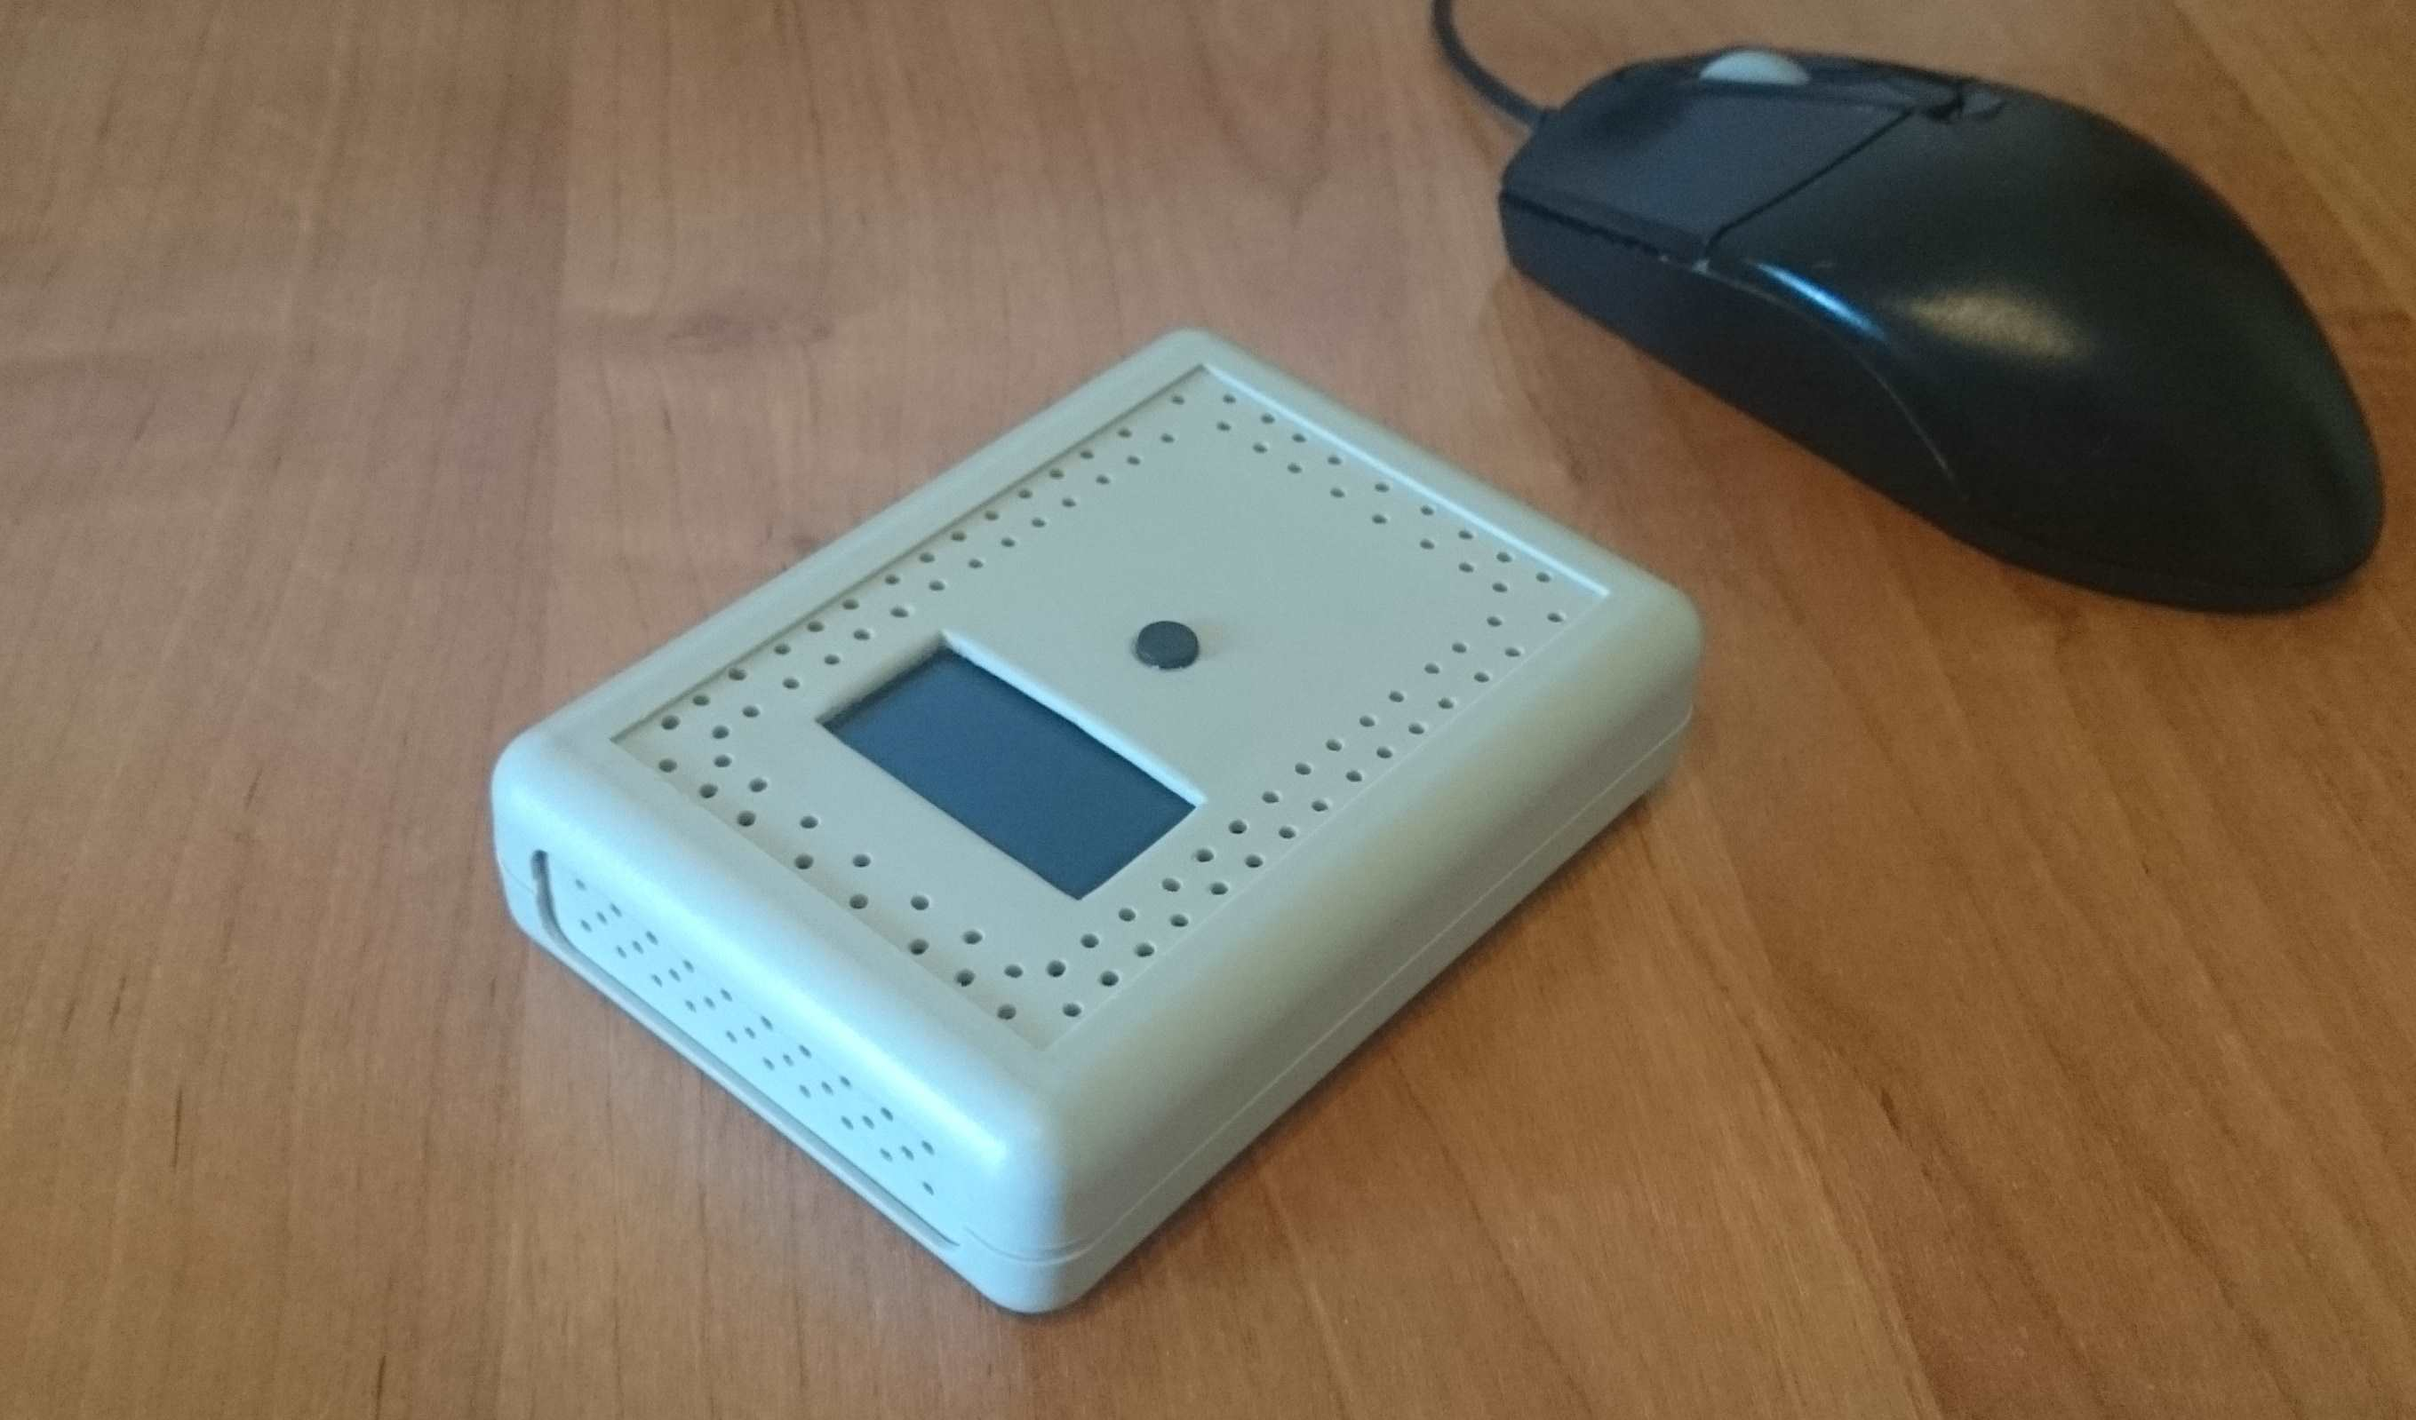
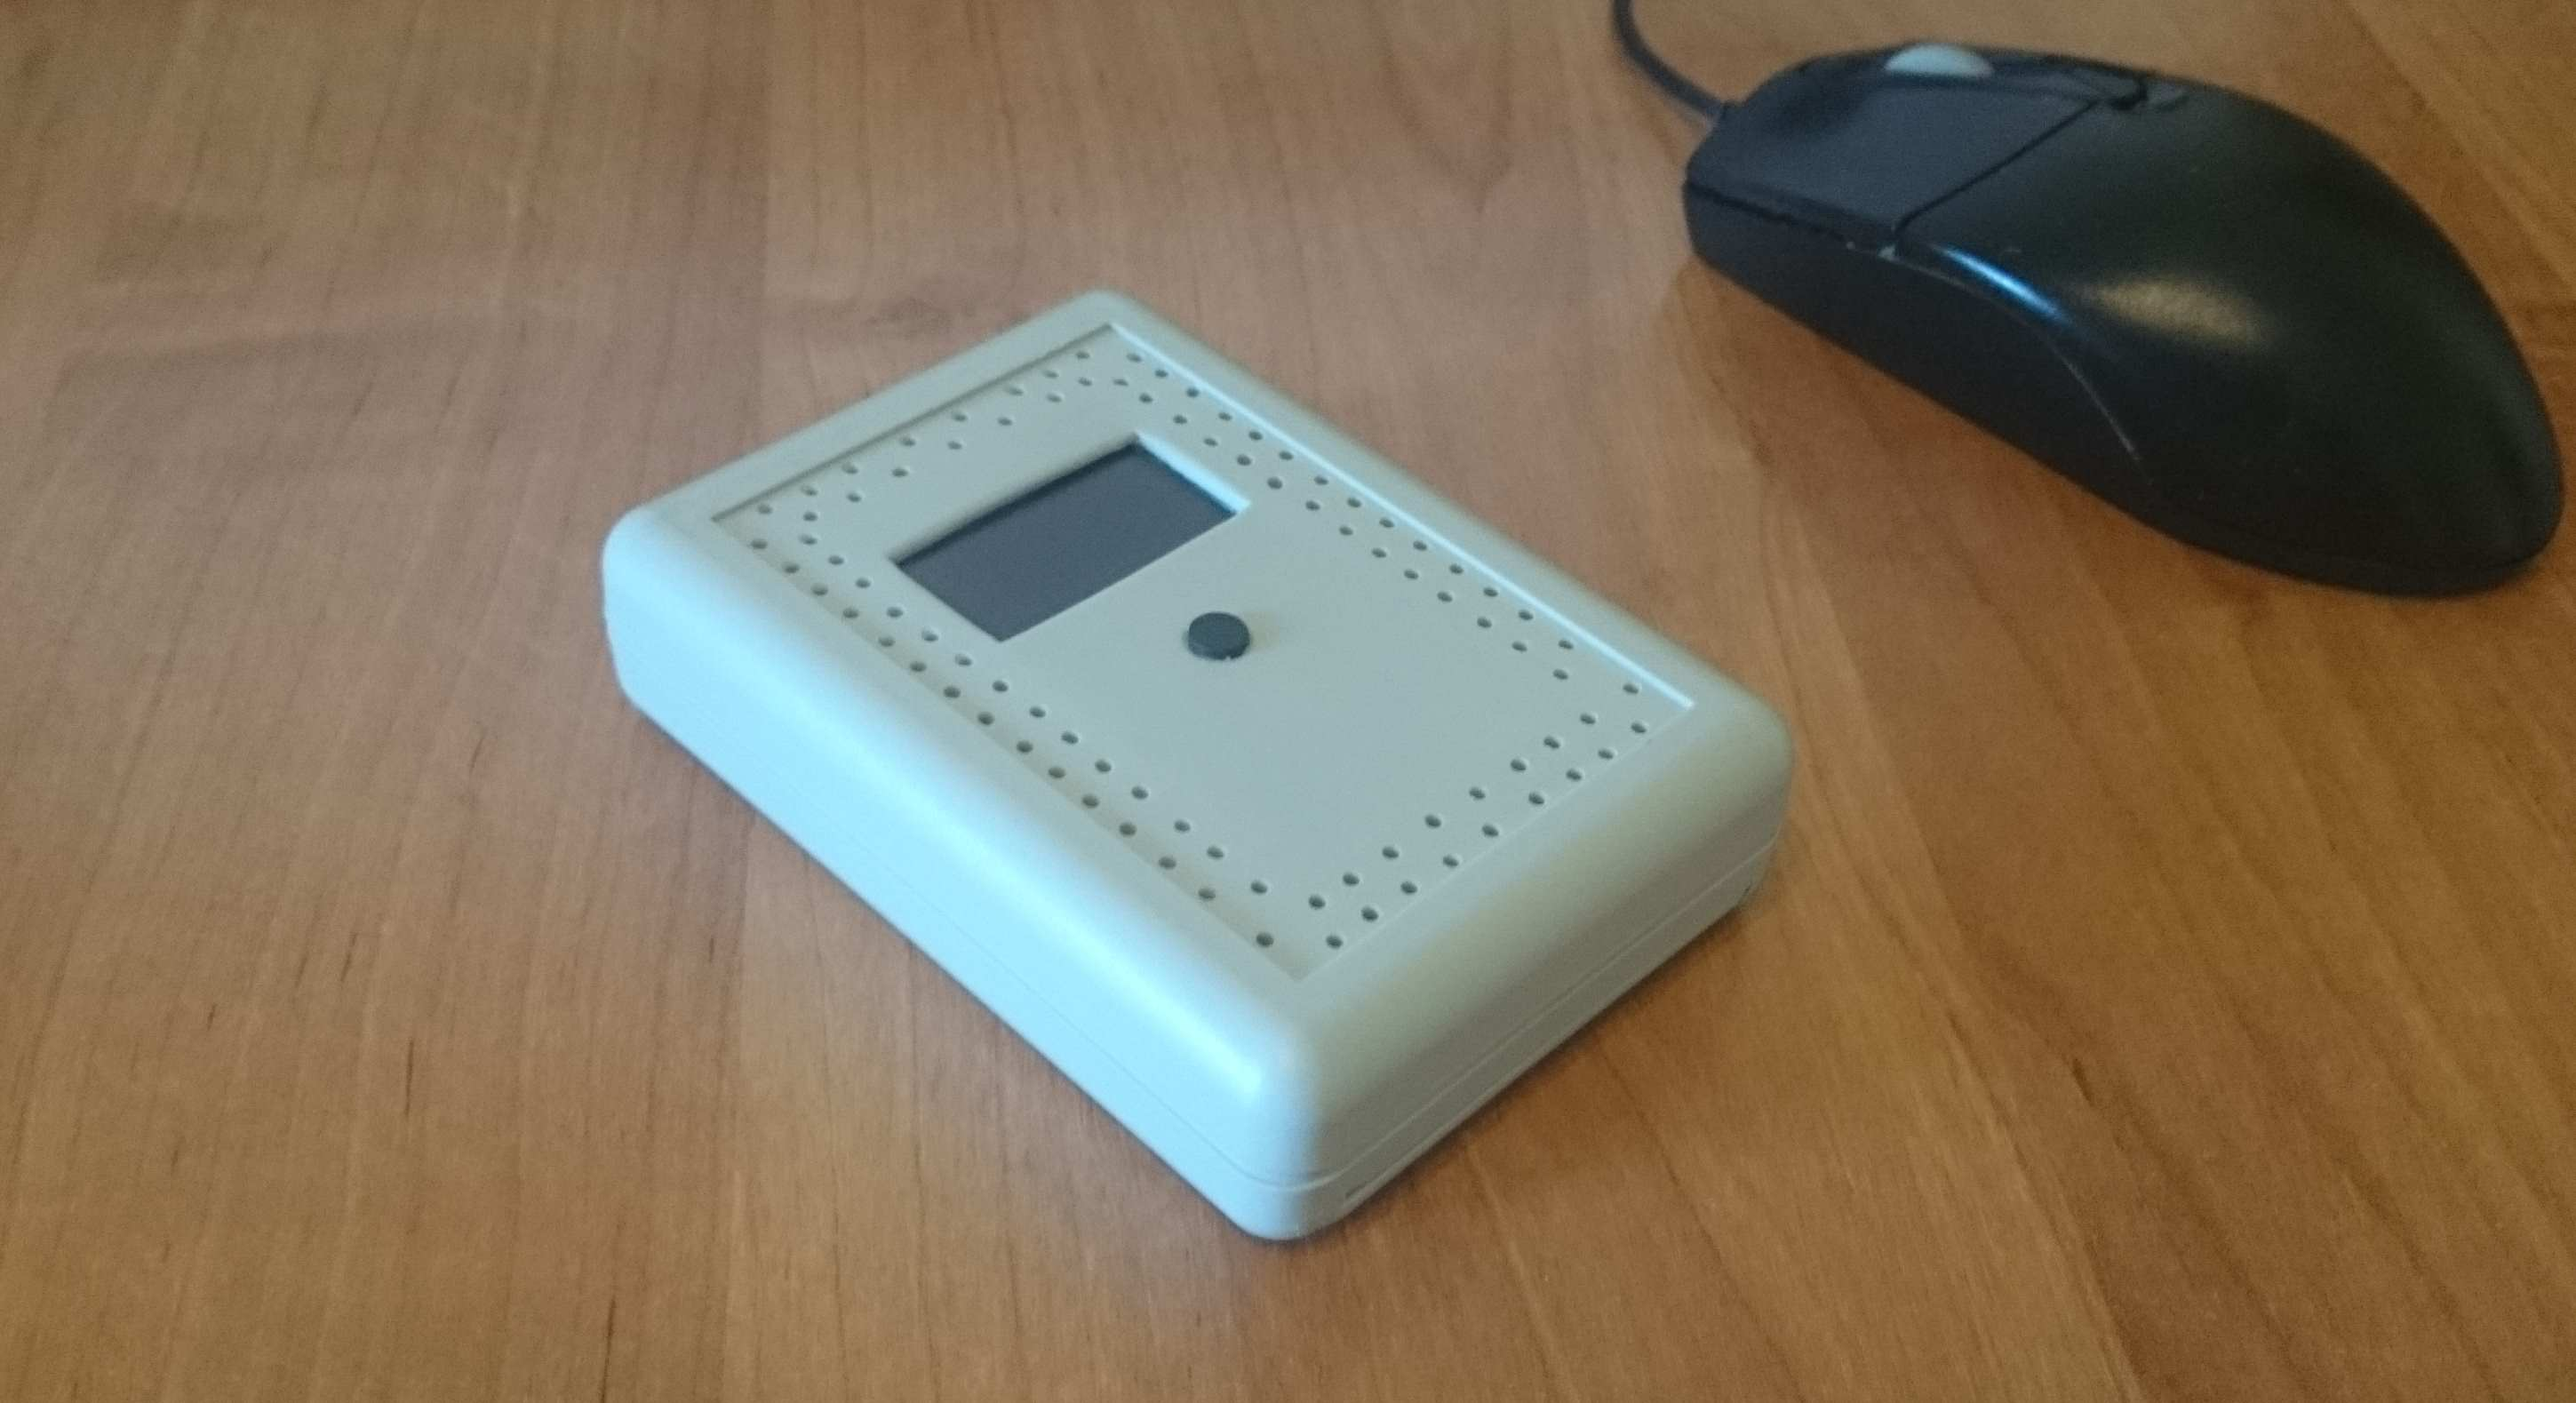
sensor: update docs

diff --git a/docs/sensor/readme.md b/docs/sensor/readme.md
@@ -2,8 +2,8 @@
 
 component | model | link | photo 
 --- | --- | --- | ---
-microcontroller | esp32 | [aliexpress](http://aliexpress.com/item/ESP32-ESP-32-ESP32S-ESP-32S-CP2102-Wireless-WiFi-Bluetooth-Development-Board-Micro-USB-Dual-Core/32867696371.html) | <img src="photos/parts/esp32-dev-board.jpg" width="200" />
-co2 sensor | mh-z19 | [aliexpress](http://aliexpress.com/item/1PCS-module-MH-Z19-infrared-co2-sensor-for-co2-monitor-Free-shipping/32371956420.html) | <img src="photos/parts/mh-z19.jpg" width="200" />
+microcontroller | esp32 doit devkit v1 | [aliexpress](http://aliexpress.com/item/ESP32-ESP-32-ESP32S-ESP-32S-CP2102-Wireless-WiFi-Bluetooth-Development-Board-Micro-USB-Dual-Core/32867696371.html) | <img src="photos/parts/esp32-dev-board.jpg" width="200" />
+co2 sensor | mh-z19b | [aliexpress](http://aliexpress.com/item/1PCS-module-MH-Z19-infrared-co2-sensor-for-co2-monitor-Free-shipping/32371956420.html) | <img src="photos/parts/mh-z19.jpg" width="200" />
 temperature, humidity, pressure sensor | bme280 | [aliexpress](http://aliexpress.com/store/product/BME280/731260_32849462236.html) | <img src="photos/parts/bme280.jpg" width="200" />
 OLED display (1.3", 128 x 64) | sh1106 | [aliexpress](http://aliexpress.com/item/1PCS-1-3-OLED-module-white-color-128X64-1-3-inch-OLED-LCD-LED-Display-Module/32796086867.html) | <img src="photos/parts/sh1106.jpg" width="200" />
 li-ion battery (18650) | ncr18650b | [aliexpress](http://aliexpress.com/item/2PCS-100-New-Original-NCR18650B-3-7-v-3400-mah-18650-Lithium-Rechargeable-Battery-Flashlight-Digital/32324914059.html) | <img src="photos/parts/ncr18650b.jpg" width="200" />
@@ -23,9 +23,10 @@ shipment time: 2-4 weeks
 
 ### Assembling
 
-.  |  .
+<span style="display: none"><span>  |  <span style="display: none"><span>
 -- | --
 circuit diagram | <a href="circuit/meteos-sensor-circuit.pdf"><img src="circuit/meteos-sensor-circuit.png" width="400" /></a>
 assembling on breadboard | <img src="photos/on-breadboard.jpg" width="400" />
 soldering / glueing / drilling / packing in case | <img src="photos/case-internals.jpg" width="400" />
-result | <img src="photos/on-table.jpg" width="400" />
+connecting to usb for charging / debugging | <img src="photos/connecting-usb.jpg" width="400" />
+front side | <img src="photos/on-table.jpg" width="400" /> <br> <img src="photos/on-table-reverse.jpg" width="400" />
